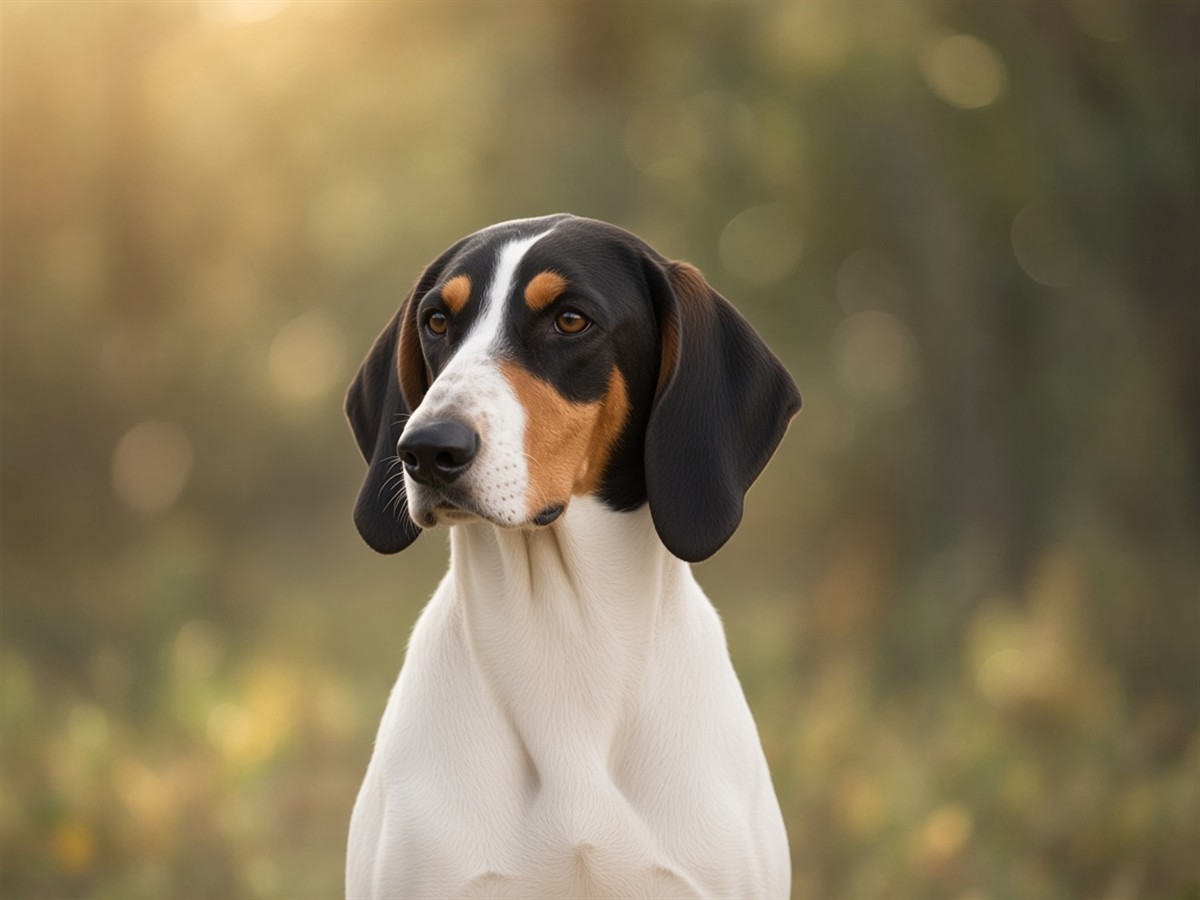
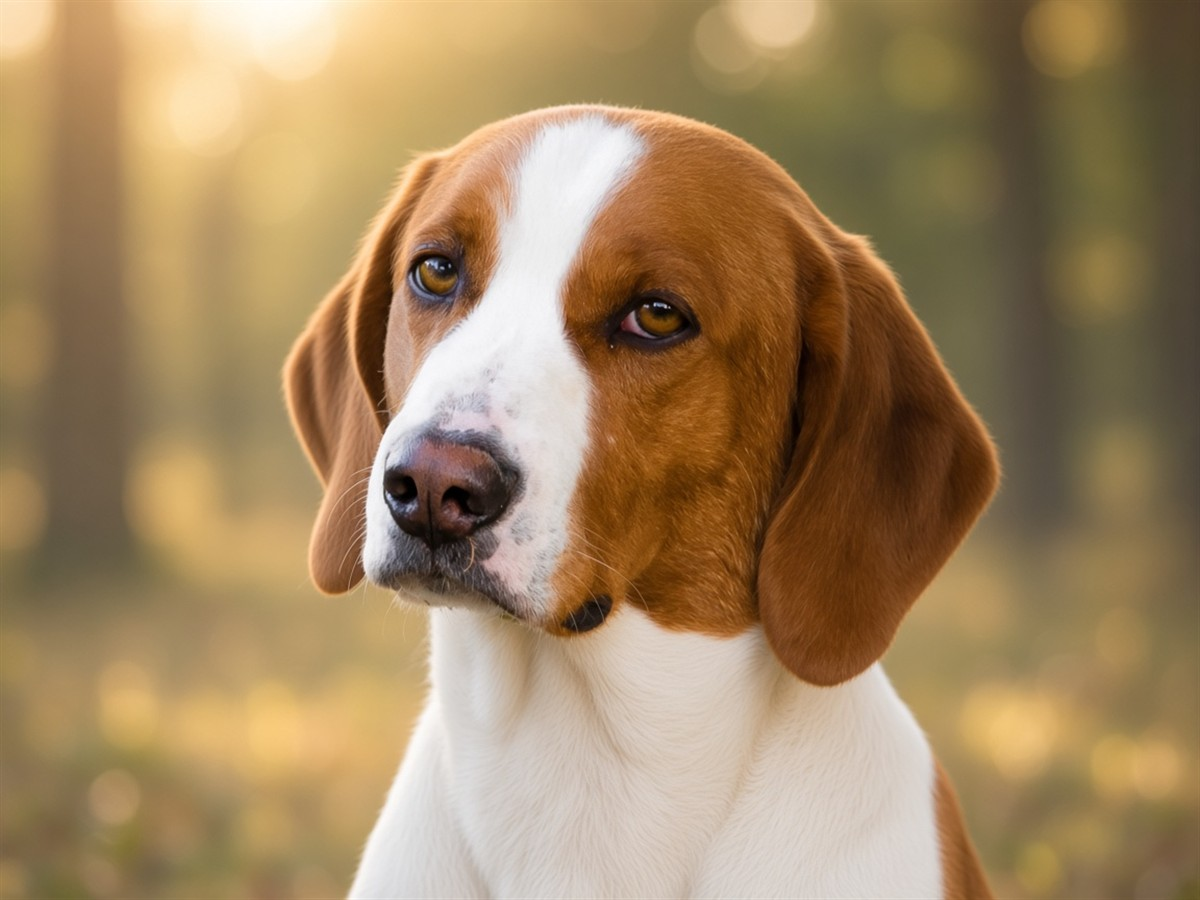
Update Dog Breed Images and Increment Sync Generation Version
- Updated image versions for 'Drever' and 'Dunker' to ensure the latest visuals are displayed.
- Incremented the breed image sync generation version to 39 for proper cache handling of the updated images.

diff --git a/src/lib/petBreedImages.ts b/src/lib/petBreedImages.ts
@@ -7,7 +7,7 @@ import { petPlaceholderImages } from './petTypes'
  * Bump when replacing files under public/breeds/ so pets + browser pick up new JPGs
  * without a manual hard refresh (appends `&r=N` to local breed URLs).
  */
-export const BREED_IMAGE_SYNC_GENERATION = 38
+export const BREED_IMAGE_SYNC_GENERATION = 39
 
 function withBreedSyncRevision(url: string): string {
   if (!url.startsWith('/breeds/')) return url
@@ -136,8 +136,8 @@ export const DOG_BREED_IMAGES: Record<string, string> = {
   'Dlouhosrstý vipet': '/breeds/dlouhosrsty-vipet.jpg?v=1',
   'Dobrman': '/breeds/dobrman.jpg?v=2',
   'Drentsche Patrisijshond': '/breeds/drentsche-patrijshond.jpg?v=1',
-  'Drever': '/breeds/drever.jpg?v=1',
-  'Dunker': '/breeds/dunker.jpg?v=1',
+  'Drever': '/breeds/drever.jpg?v=2',
+  'Dunker': '/breeds/dunker.jpg?v=2',
   'Entlebuchský salašnický pes': 'https://images.dog.ceo/breeds/entlebucher/n02108000_1690.jpg',
   'Estrelský pastevecký pes': 'https://images.dog.ceo/breeds/mix/noah01.jpg',
   'Eurasier': 'https://images.dog.ceo/breeds/mix/noah01.jpg',
